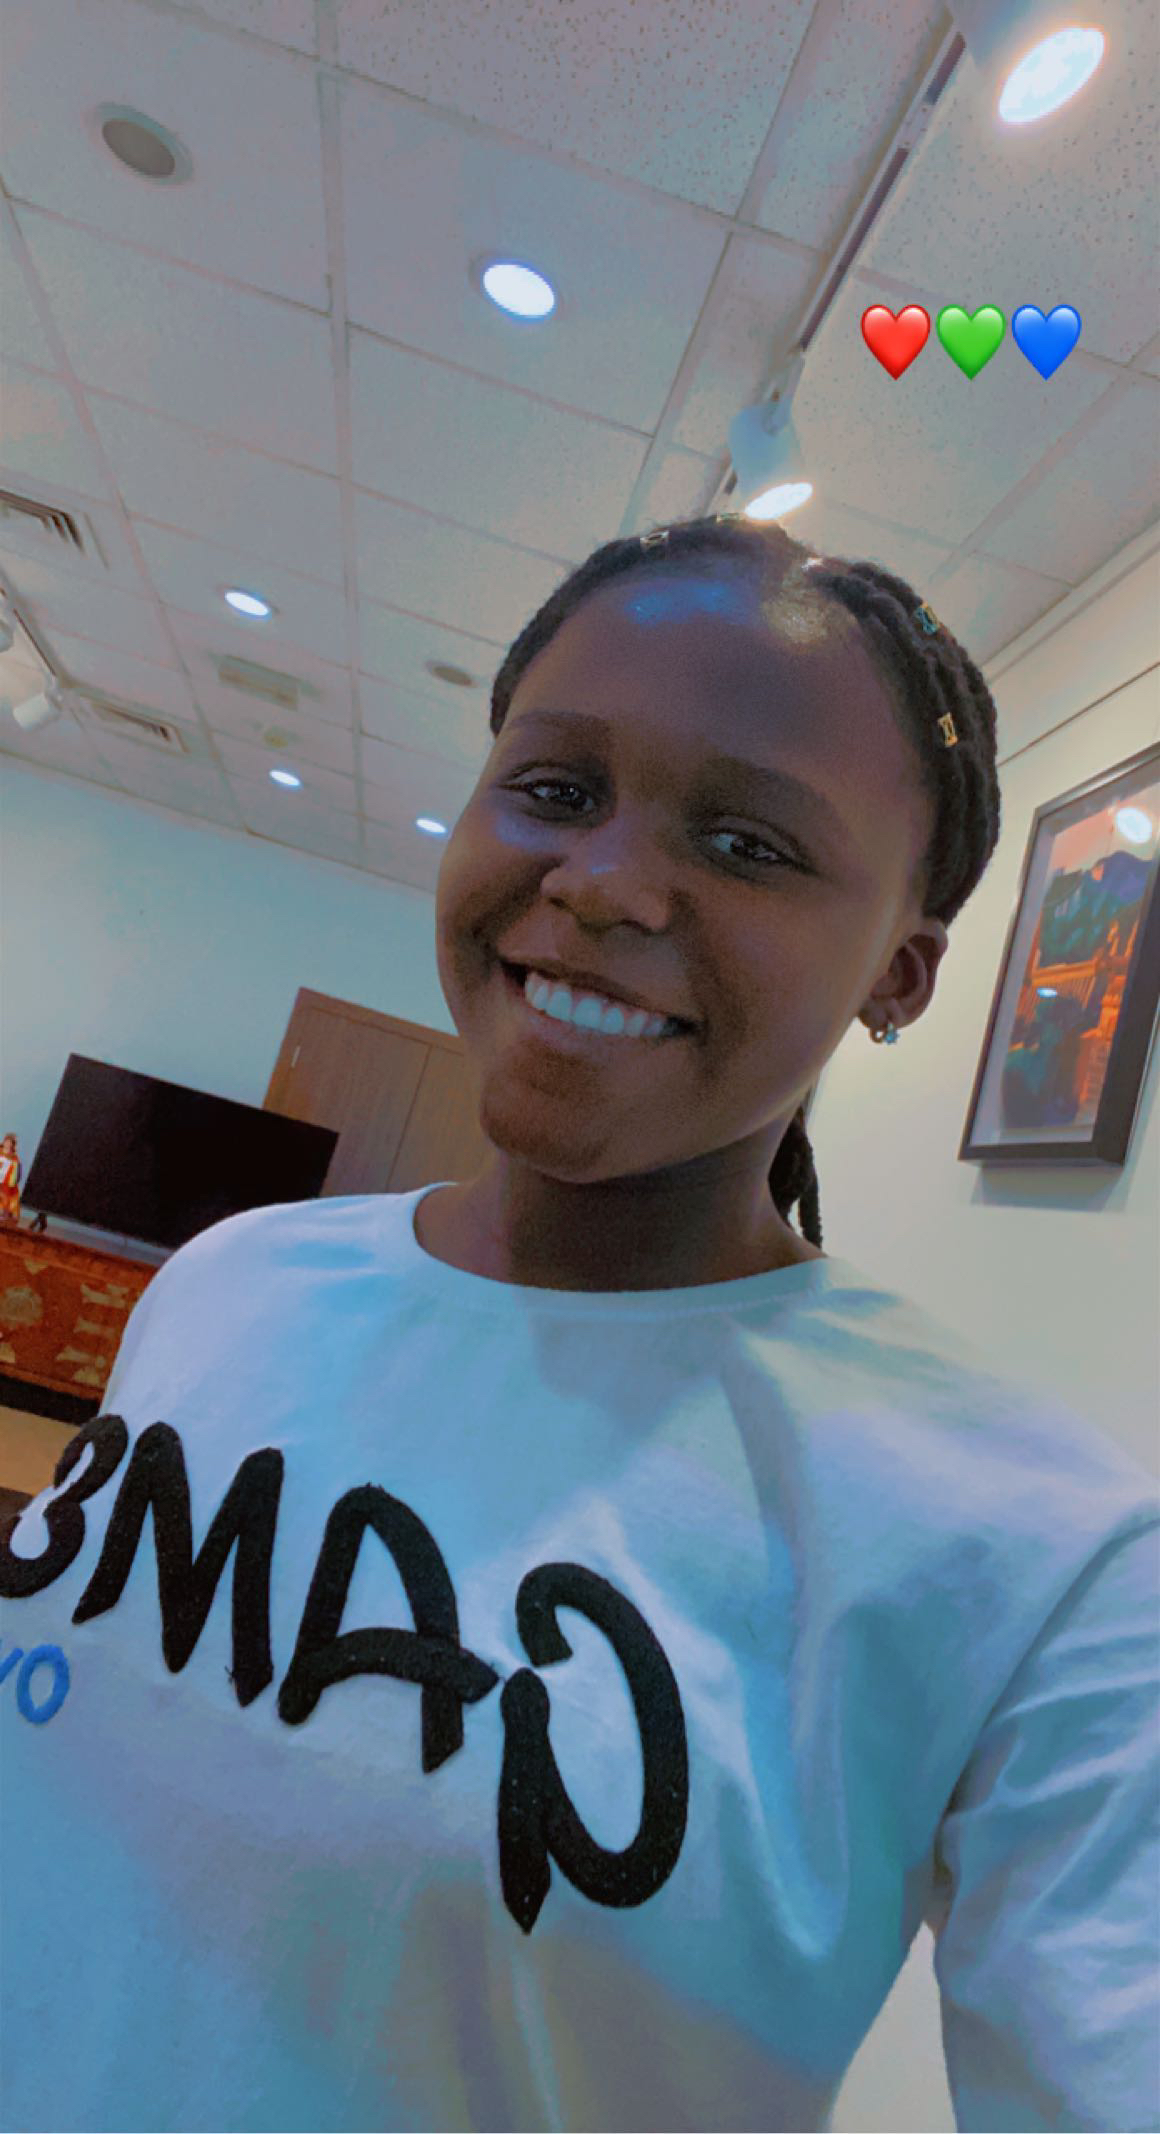
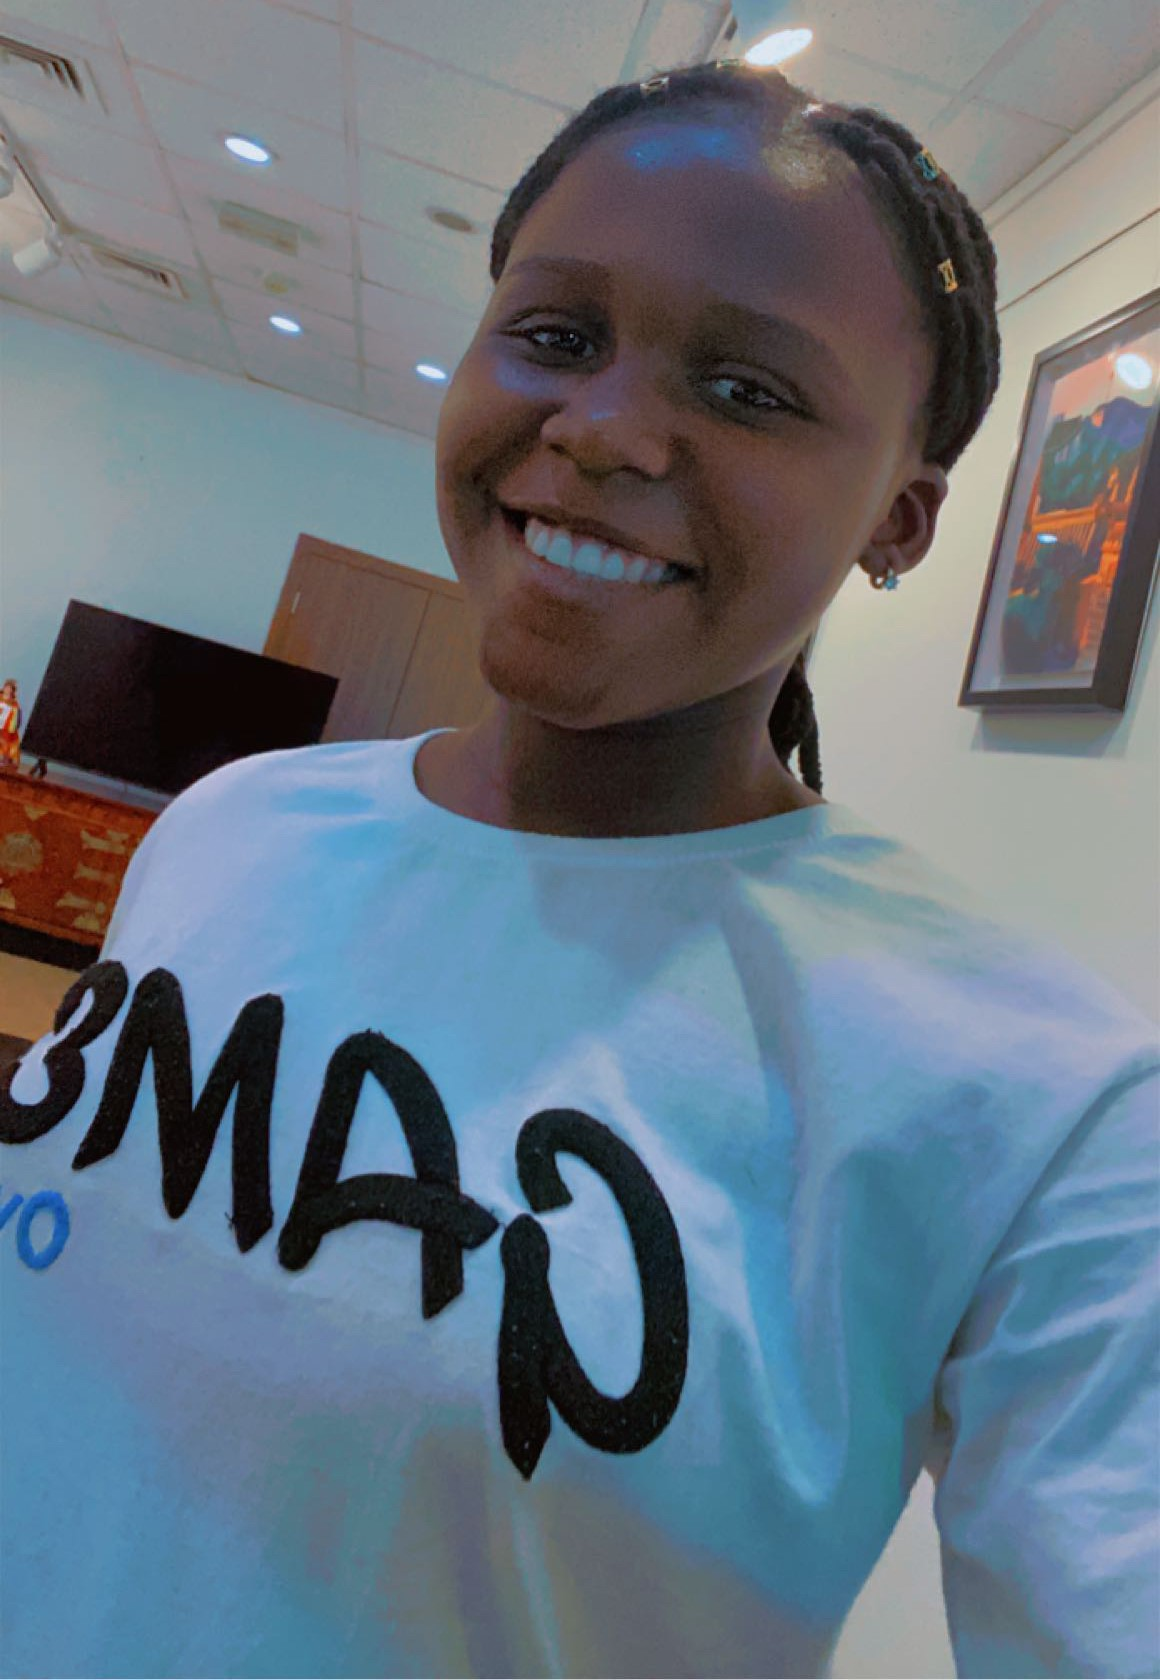
skills secction styling

diff --git a/profile.html b/profile.html
@@ -23,16 +23,24 @@
   <main>
     <section id="about-me">
       <h2>About Me</h2>
-      <img src="[Image URL here]" alt="Your Profile Picture">
-      <p>[Write a short bio about yourself here. Talk about your hobbies, interests, or career aspirations.]</p>
+      <div>
+        <img src="profile-pic.JPG" alt="Your Profile Picture">
+        <p>I'm Dorcas, a frontend developer who loves turning ideas into awesome digital stuff. Using HTML, CSS, and
+          JavaScript, I
+          make websites that look great and work smoothly. I'm always curious about new tech and love finding creative
+          solutions
+          to problems. When I'm not coding, you'll find me exploring art, or reading
+          Let's
+          build something amazing together!</p>
+      </div>
     </section>
 
     <section id="skills">
       <h2>Skills</h2>
       <ul>
-        <li>[Skill 1]</li>
-        <li>[Skill 2]</li>
-        <li>[Skill 3]</li>
+        <li>HTML</li>
+        <li>CSS</li>
+        <li>JAVASCRIPT</li>
       </ul>
     </section>
 

diff --git a/style.css b/style.css
@@ -2,13 +2,19 @@ body {
   font-family: Arial, sans-serif;
   margin: 0;
   padding: 0;
-  background-color: lavender;
+  background-color: cornsilk;
+}
+
+
+
+img {
+  width: 100%;
 }
 
 header {
   background-color: #333;
-  color: #fff;
-  padding: 20px;
+  color: cornsilk;
+  padding: 5px;
   text-align: center;
 }
 
@@ -24,7 +30,7 @@ nav ul {
 }
 
 nav ul li a {
-  color: #fff;
+  color: cornsilk;
   text-decoration: none;
   font-size: 20px;
   transition: all 1s;
@@ -32,4 +38,40 @@ nav ul li a {
 
 nav ul li a:hover {
   color: grey;
+}
+
+#about-me {
+  text-align: center;
+}
+
+#about-me h2 {
+  font-size: 33px;
+}
+
+#about-me div {
+  display: flex;
+  gap: 11rem;
+  justify-content: center;
+}
+
+#about-me div img {
+  width: 300px;
+  border-radius: 50px;
+}
+
+#about-me div p {
+  width: 400px;
+  font-size: 20px;
+  line-height: 40px;
+  font-weight: 500;
+}
+
+#skills {
+  text-align: center;
+  background-color: #333;
+  color: cornsilk;
+}
+
+li {
+  list-style-type: none;
 }
